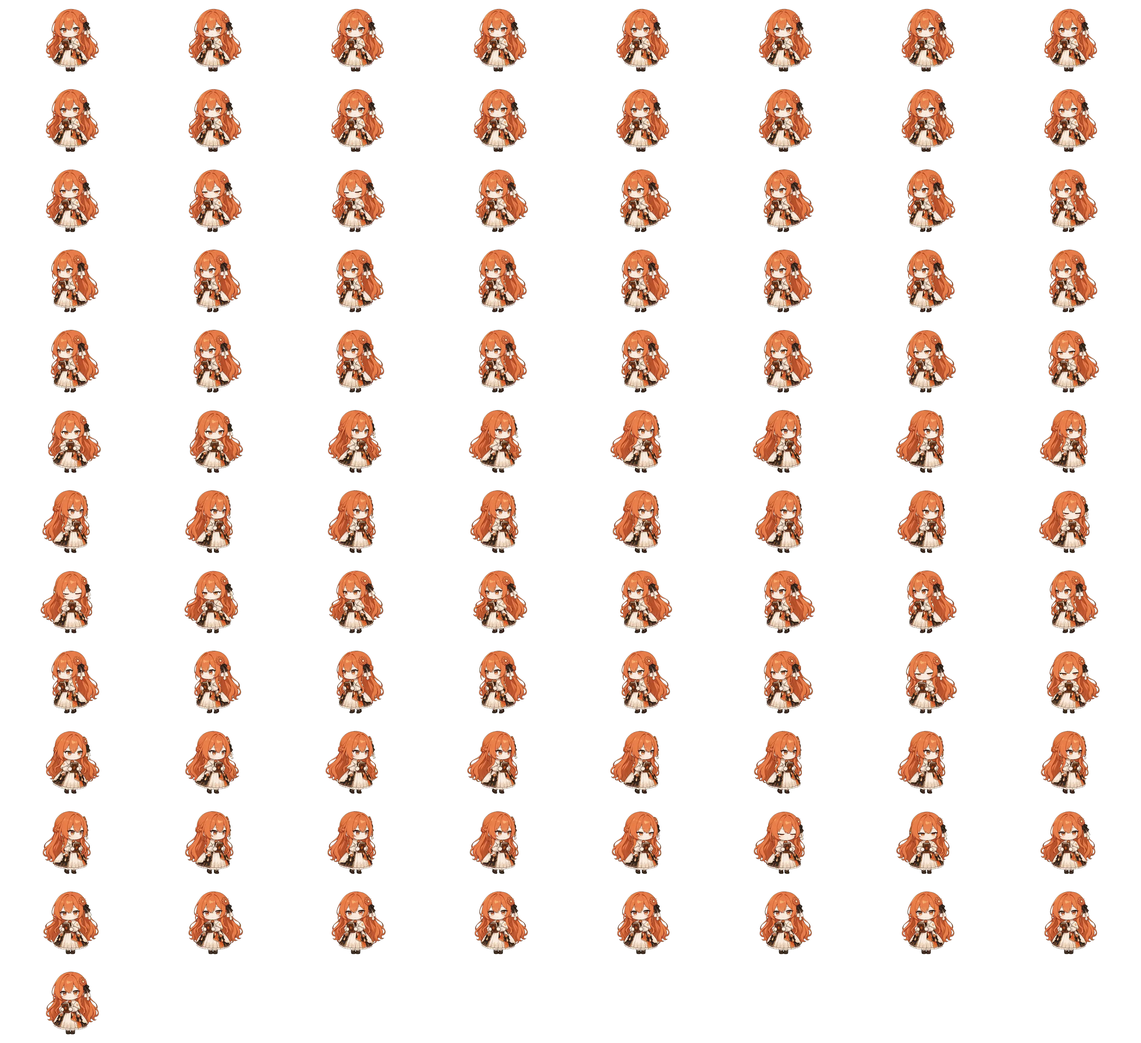
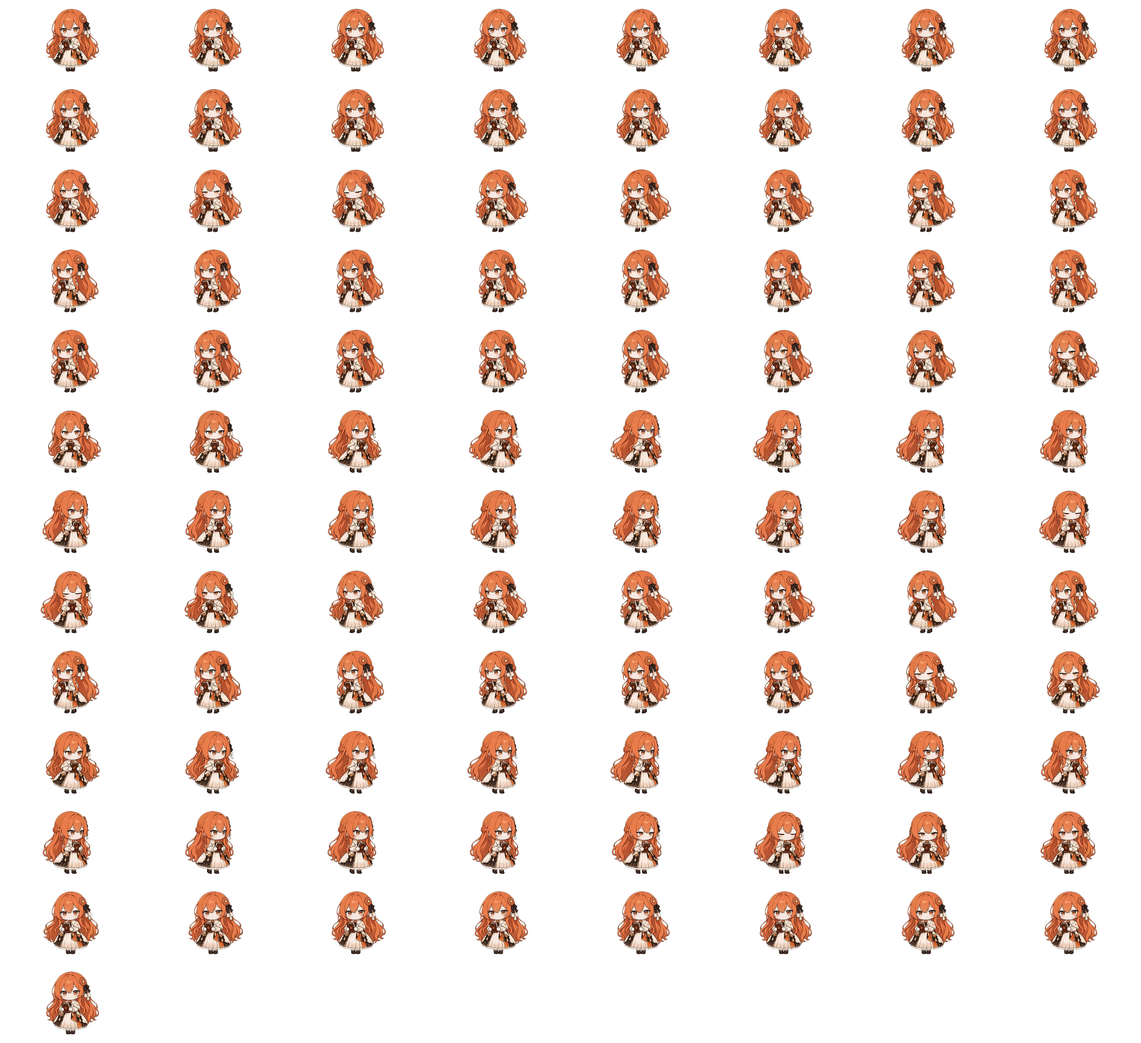
Add tired idle animation; reprocess self-made sheets losslessly
- New 累了-叹气垂书 sheet (Wan 3.0, 15 fps, 100 frames): a sigh, the book drops to her waist, a slow blink, then she quietly recovers
- Tired is no longer a resting pose when quota runs low; it is an idle action in the Claude group, picked one time in three when the 5-hour or weekly quota is at or below 15%, with its own low-quota lines
- Reprocess all ten self-made sheets from the source videos: lossless intermediates and a single WebP encode at quality 90, one colour mapping per clip anchored on the idle-stance frames, hair and face matched to idle (frame-to-frame colour jitter in held poses drops from 4.7 to 1.9; faces no longer yellowish)
- Asking resampled at 15 fps without half-frame blending (loop 40-59); retire the static tired.webp

diff --git a/web/index.html b/web/index.html
@@ -714,7 +714,7 @@ function renderQuota() {
 // 不然一条要跑好几分钟的命令中途她演了个招呼，之后一直没有新事件，就会站着不动
 function restPose() {
   if (aiActivity()) { const p = charState[charId].pose; return p === 'listening' ? 'thinking' : p }
-  return quota[charId]?.low ? 'tired' : 'idle'
+  return 'idle'   // 额度低不再常驻「累了」（2026-11-25 用户定）：累了改成闲置随机动作，见 tiredFirst
 }
 // 这个角色有没有某个姿态的专属立绘
 const hasPose = p => !!char()?.poses?.[p]
@@ -1383,12 +1383,10 @@ function setQuota(id, q, at) {
 setInterval(() => { if (quotaRaw[charId]) applyQuota(charId) }, 60_000)
 function applyQuota(id) {
   const q = QuotaBars.fresh(quotaRaw[id], Date.now() / 1000, quotaAt[id])
-  const wasLow = quota[id]?.low
   quota[id] = q
   if (id !== charId) return
   renderQuota()
-  if (q?.low && pose === 'idle') { setPose('tired'); if (!wasLow) say(pick(linesOf('tired') || [''])) }
-  if (!q?.low && pose === 'tired') setPose('idle')
+  if (pose === 'tired' && !anim('tired')) setPose('idle')   // 旧版额度低时停在静态「累了」：换上动画后不再常驻
   const tier = quotaTier(q)
   if (tier && quotaTierSeen && tier !== quotaTierSeen && anim(tier) && !aiActivity() && !multi && !tumble && farewellLine === null && RESTING.has(pose)) show(tier, true)
   if (tier) quotaTierSeen = tier
@@ -1747,6 +1745,8 @@ function idleTick() {
     farewell: farewellLine !== null, clicking: clickSequence.busy || motionMood.pending || !!tumble })
   if (!available.length) return
   if (quiet > SLEEP_AFTER) { setPose('sleeping'); say(pick(linesOf('sleeping') || [''])); return }
+  if (tiredFirst(available)) { show('tired', true); say(pick(linesOf('tiredLow') || linesOf('tired') || [''])); return }   // 额度低时说额度的台词，平时抽到只说累
+  if (!available.length) return
   // 先在组里平均抽一组，再在组里按 weight 抽一个：动画小动作很多，不能把哼歌、伸懒腰这些挤掉；当天的节气动作权重高
   const groups = [...new Set(available.map(p => groupOf[p] || p))], g = pick(groups)
   const inGroup = available.filter(p => (groupOf[p] || p) === g)
@@ -1755,6 +1755,15 @@ function idleTick() {
   if (anim(action)?.walk) { if (startWalk(action)) return; }
   if (!TRANSIENT[action]) TRANSIENT[action] = 4000
   show(action, true)
+}
+// 累了（2026-11-25 用户定）：只在闲置随机动作里。5 小时或本周额度剩 15% 以下时，每次抽动作有 1/3 是「累了」（其余 2/3 从别的动作里抽）；
+// 平时就是「Claude 梗」组里的普通一员。工作中的姿态不受影响（随机动作本来只在闲着时抽）
+function quotaLow15() { return (quota[charId]?.bars || []).some(b => (b.label === '5小时' || b.label === '本周') && b.left <= .15) }
+function tiredFirst(available) {
+  if (!available.includes('tired') || !quotaLow15()) return false
+  if (Math.random() < 1 / 3) return true
+  available.splice(available.indexOf('tired'), 1)
+  return false
 }
 function idleAnimations(d = new Date()) {
   const out = Object.entries(char()?.animations || {}).filter(([p, a]) => a.idle && idleSettings.actions.includes(a.idle) && whenOk(a.when, d) && anim(p)).map(([p]) => p)

diff --git a/characters/claude/anim/SOURCE.md b/characters/claude/anim/SOURCE.md
@@ -84,15 +84,16 @@
 
 | 文件 | 用在哪 | 怎么做的 |
 |---|---|---|
-| 看书-翻页.webp | reading 看书（整段循环；原来的静态翻页 reading / reading-2 移到 `archive/`） | 首帧、尾帧都用 待机呼吸休闲.webp 的第 1 帧（绿底），ByteDance Seedance 2.0（经 ComfyUI 云端节点）生成 10 秒 480p 绿幕视频，再抠绿、抽成每秒 12 帧、缩放对齐到和作者第 1 帧同一位置（人物 y 40–322、x 206–444）。2026-11-24 头发再单独校一次（`hair_match.py`：头发的明暗分布、鲜艳度、色相对到作者整段待机动画的头发；原来额头浅色多，看着偏黄）。SHA-256 前 16 位 `9de8b168a0648364`（2026-11-18：按 BT.709 解码，用 Real-ESRGAN realesr-animevideov3（BSD-3）放大 2 倍去糊，再逐帧在 Lab 色彩空间里把颜色分布匹配到待机第 1 帧）放大 2 倍去糊，再逐帧校色到待机第 1 帧的颜色） |
-| 得意-叉腰.webp | proud 得意（干完大活时，72 帧演满；原来的静态 proud 移到 `archive/`） | 同上，Seedance 2.0 480p 6 秒，第 3 版提示词（第 2 版写了「眼睛一亮、睁大」，被画成闪亮大眼，作废）；超分 2 倍 + 逐帧 Lab 校色。2026-11-24 头发再单独校一次（`hair_match.py`：头发的明暗分布、鲜艳度、色相对到作者整段待机动画的头发；原来额头浅色多，看着偏黄）。SHA-256 前 16 位 `4ea297dbaf9bb480` |
-| 小侦探-放大镜.webp | detective 小侦探（闲置随机，玩耍组，不限时段，96 帧演满） | 同上，Seedance 2.0 480p 8 秒：魔法变出放大镜、书飘到肩旁，左右探着找、凑到眼前瞄，最后点头、放大镜化光散掉。本来是给「查资料」做的第 2 版，像找东西不像查资料，改作随机动作。超分 2 倍 + 逐帧 Lab 校色。2026-11-24 头发再单独校一次（`hair_match.py`：头发的明暗分布、鲜艳度、色相对到作者整段待机动画的头发；原来额头浅色多，看着偏黄）。SHA-256 前 16 位 `ad448377887a3518` |
-| 查资料-扫读翻页.webp | searching 查资料（第 0–41 帧入场，第 42–67 帧循环，第 68–96 帧离场，帧号从 0 开始） | 2026-11-23 用待机动画第 1 帧的绿底版作为首尾帧，经 LibTV 出片。480p 原片为 24 fps，按 BT.709 解码，隔帧取样后用 Real-ESRGAN 动漫模型超分 2 倍，抠绿、底边对齐、逐帧 Lab 校色。原静态翻页素材归档。2026-11-24 头发再单独校一次（`hair_match.py`：头发的明暗分布、鲜艳度、色相对到作者整段待机动画的头发；原来额头浅色多，看着偏黄）。SHA-256 前 16 位 `8f07cb2e8a2cf348`。 |
-| 有事问你-举手.webp | asking 有事问你（第 0–32 帧入场举手，第 33–47 帧循环摆手，离开时从当前帧一直往后播：第 48–69 帧再摆一次手、第 70–95 帧放手，共 96 帧，帧号从 0 开始。循环段两头和后半段对不上，所以离场不跳帧） | 2026-11-23 动作本项目设计，用待机动画第 1 帧的绿底版作为首尾帧，经 LibTV（Wan 3.0）出片。480p 原片为 30 fps，按 BT.709 解码，每 2.5 帧取一帧（每秒 12 帧，落在半帧上的取前后两帧各一半）后用 Real-ESRGAN 动漫模型超分 2 倍，按四边实测底色抠绿、底边对齐、逐帧 Lab 校色。原静态立绘归档。2026-11-24 头发再单独校一次（`hair_match.py`：头发的明暗分布、鲜艳度、色相对到作者整段待机动画的头发；原来额头浅色多，看着偏黄）。SHA-256 前 16 位 `4c70744b7f6d7a1a`。 |
-| 派活-小帮手跑圈.webp | delegating 派活（每秒 15 帧、共 171 帧、22 行，和别的动画不一样。第 0–87 帧原片：两只方块小布偶凝出、开始跑圈、她抬手指挥；第 88–129 帧是分层合成的循环；第 130–170 帧布偶跑回两侧消散、她抱回书，帧号从 0 开始。停下时把当前这圈跑完再接收尾） | 2026-11-23 动作本项目设计（参照原静态派活图「叫帮手」的意思，帮手画成 Claude Code 的吉祥物 Clawd 样子的方块小布偶），用待机动画第 1 帧的绿底版作为首尾帧，经 LibTV（Wan 3.0，10 秒）出片。原片 30 fps 每 2 帧取一帧（布偶跑得快，半帧混合会叠出残影、一闪一闪，所以不按 12 帧混合），超分、抠绿、对齐同「有事问你-举手」；校色只用第 0 帧人物所在区域算一次、套到所有帧（`--mask-first --one-lut`），免得橙色布偶把头发校歪、跑过她面前时脸跟着闪。循环和收尾用 `D:\video llm\工作流\compose_layers.py` 分层重拼（入场原样）：每帧先按她头部对齐（抵消 Wan 画出的左右晃动）；她整个人用「她的帧」（循环时是手势循环第 80–121 帧；不横切，整根头发同一时刻），那一帧里原本的布偶挖掉、用对齐后的第 0 帧补；再把「布偶的帧」里的布偶叠上去（按和第 0 帧的差别抠，只留贴地或够大的方块，被吹起的发丝不要），循环时是半圈 21 帧（第 88–108 帧）播两遍；收尾时她这层把第 88–149 帧快放到和布偶一样长；最后把半透明处混进来的绿幕反推掉（布偶凝出、消散时原来泛绿发黄）。原 8 张静态翻页归档。Clawd 形象的权利归 Anthropic。SHA-256 前 16 位 `79ee2529c7d732a2`。 |
-| 忙碌-左右看.webp | busy 忙碌（两个对话同时干活；每秒 15 帧、共 97 帧。第 16 帧起播，之后在第 51–81 帧循环（右看 → 转左看 → 转回右看，首尾差 8.4、比相邻两帧小，一直在转头、不会站直停顿）；离开时从当前帧接着播到第 96 帧站定。character.json 的 look 标了她看左 / 看右的帧段，两侧对话卡片跟着亮） | 2026-11-24 动作本项目设计（照原静态图「左右来回看」），用待机动画第 1 帧的绿底版作为首尾帧，经 LibTV（Wan 3.0，8 秒）出片。模型开头半秒自己换成了另一个站姿、结尾也停在它上面，所以只取原片第 15–207 帧（从它的站姿起、到最像第 15 帧的地方止，首尾差和相邻两帧差不多），30 fps 每 2 帧取一帧，超分、抠绿、对齐，校色只用第 0 帧算一次（`--one-lut`）。原静态 busy_left / busy_right 保留作关掉动画时的后备。2026-11-24 头发再单独校一次（`hair_match.py`：头发的明暗分布、鲜艳度、色相对到作者整段待机动画的头发；原来额头浅色多，看着偏黄）。SHA-256 前 16 位 `9e35bcd7ddf2d918`。 |
-| 忙不过来-抱书摞.webp | swamped 忙不过来（三个以上对话同时干活；每秒 24 帧、共 164 帧（原片前 164 帧，一帧不跳：12 帧时换边只剩 3 帧，看着是跳过去的）。第 0–72 帧三本书从上面落下、叠成一摞，第 73–110 帧循环左右晃着扶正，离开时接着播到第 163 帧书摞稳住，再淡入下一个动作——原片之后书淡去时会叠出重影，没取） | 2026-11-24 动作本项目设计，前后试了 Wan 3.0 五版、Seedance 2.5 Flash 一版都没成，最后用 Seedance 2.5（480p、8 秒，提示词 `prompt_swamped_v9_seedance25.txt`），首尾帧是待机第 1 帧绿底版。原片 24 fps 全取（`--step 1 --frames 164`），超分用 RealESRGAN_x4plus_anime_6B（`--sr-model`），抠绿、对齐，校色逐帧算、取前后各 6 帧平均，不算书的颜色（`lab_match.py --smooth 6 --no-books`；只用第 0 帧算一次的话，后面的帧会发白发灰）。Seedance 线条细、偏淡，再轻度加强：暗细线压深、轻微锐化、饱和度 +5%（强度 40%）。她左右晃得太大，每帧按头部位置把整帧往回平移 60%（按 1 像素量、不平滑，只平移、不拼接）。原静态 swamped_left / swamped_right 保留作关掉动画时的后备。2026-11-24 头发再单独校一次（`hair_match.py`：头发的明暗分布、鲜艳度、色相对到作者整段待机动画的头发；原来额头浅色多，看着偏黄）。SHA-256 前 16 位 `160c423c7839e5a7`。 |
-| 道歉-鞠躬挠头.webp | sorry 道歉（出错或被打断后你又发消息时，Claude 先认个错；每秒 24 帧、共 163 帧。第 0–43 帧手按胸口、闭眼鞠躬，第 44–77 帧循环保持鞠躬（首尾差 6.2，和相邻两帧的 5.2 差不多），离开时从当前帧接着播：第 78–100 帧直起身、第 101–138 帧闭眼笑着不好意思地挠头、第 139–162 帧手放回书上站好，帧号从 0 开始） | 2026-11-25 动作本项目设计（照原静态图「闭眼浅笑、手按胸口」，起身时挠头），用待机动画第 1 帧的绿底版作为首尾帧，经 LibTV（Seedance 2.5 Flash，480p、8 秒）出片，第 3 版提示词 `prompt_sorry_v3_seedance25flash.txt`（第 1 版 Wan 3.0 鞠躬太浅、把低头画成歪头；第 2 版鞠下去转成了完全正面，和首帧微微侧身的站姿对不上）。原片 24 fps，开头约 1.25 秒原地站着没取（`--start 30`），之后全取 163 帧，超分用 RealESRGAN_x4plus_anime_6B，抠绿、对齐，逐帧 Lab 校色并取前后各 6 帧平均（`lab_match.py --smooth 6`），最后 `hair_match.py --wide --band-hue` 对头发（连暗部阴影、深色发丝一起对，色相按明暗分档对齐：只对亮部时暗橙色比作者少两成、还偏黄，看着发浅、不够橙）。原静态 sorry.webp 归档。SHA-256 前 16 位 `def1b215f1835a70`。 |
+| 看书-翻页.webp | reading 看书（整段循环；原来的静态翻页 reading / reading-2 移到 `archive/`） | 首帧、尾帧都用 待机呼吸休闲.webp 的第 1 帧（绿底），ByteDance Seedance 2.0（经 ComfyUI 云端节点）生成 10 秒 480p 绿幕视频，再抠绿、抽成每秒 12 帧、缩放对齐到和作者第 1 帧同一位置（人物 y 40–322、x 206–444）。2026-11-24 头发再单独校一次（`hair_match.py`：头发的明暗分布、鲜艳度、色相对到作者整段待机动画的头发；原来额头浅色多，看着偏黄）。2026-11-25 从原片重新处理：中间文件都存无损 PNG，最后只压一次 WebP（质量 90）；颜色映射整段只用一个，按开头、结尾各 6 帧（待机站姿）算（`lab_match.py` / `hair_match.py --ends 6`），头发和脸 `hair_match.py --wide --band-hue --light`——原来每步都存有损 WebP、逐帧算映射，同一块地方的颜色一帧一帧地抖（道歉鞠躬保持段逐像素抖动 4.7 → 1.9），脸也比作者黄。SHA-256 前 16 位 `114f36b67a14b82f`（2026-11-18：按 BT.709 解码，用 Real-ESRGAN realesr-animevideov3（BSD-3）放大 2 倍去糊，再逐帧在 Lab 色彩空间里把颜色分布匹配到待机第 1 帧）放大 2 倍去糊，再逐帧校色到待机第 1 帧的颜色） |
+| 得意-叉腰.webp | proud 得意（干完大活时，72 帧演满；原来的静态 proud 移到 `archive/`） | 同上，Seedance 2.0 480p 6 秒，第 3 版提示词（第 2 版写了「眼睛一亮、睁大」，被画成闪亮大眼，作废）；超分 2 倍 + 逐帧 Lab 校色。2026-11-24 头发再单独校一次（`hair_match.py`：头发的明暗分布、鲜艳度、色相对到作者整段待机动画的头发；原来额头浅色多，看着偏黄）。2026-11-25 从原片重新处理：中间文件都存无损 PNG，最后只压一次 WebP（质量 90）；颜色映射整段只用一个，按开头、结尾各 6 帧（待机站姿）算（`lab_match.py` / `hair_match.py --ends 6`），头发和脸 `hair_match.py --wide --band-hue --light`——原来每步都存有损 WebP、逐帧算映射，同一块地方的颜色一帧一帧地抖（道歉鞠躬保持段逐像素抖动 4.7 → 1.9），脸也比作者黄。SHA-256 前 16 位 `79e001918cd8e458` |
+| 小侦探-放大镜.webp | detective 小侦探（闲置随机，玩耍组，不限时段，96 帧演满） | 同上，Seedance 2.0 480p 8 秒：魔法变出放大镜、书飘到肩旁，左右探着找、凑到眼前瞄，最后点头、放大镜化光散掉。本来是给「查资料」做的第 2 版，像找东西不像查资料，改作随机动作。超分 2 倍 + 逐帧 Lab 校色。2026-11-24 头发再单独校一次（`hair_match.py`：头发的明暗分布、鲜艳度、色相对到作者整段待机动画的头发；原来额头浅色多，看着偏黄）。2026-11-25 从原片重新处理：中间文件都存无损 PNG，最后只压一次 WebP（质量 90）；颜色映射整段只用一个，按开头、结尾各 6 帧（待机站姿）算（`lab_match.py` / `hair_match.py --ends 6`），头发和脸 `hair_match.py --wide --band-hue --light`——原来每步都存有损 WebP、逐帧算映射，同一块地方的颜色一帧一帧地抖（道歉鞠躬保持段逐像素抖动 4.7 → 1.9），脸也比作者黄。SHA-256 前 16 位 `c3402e6e28bd60c3` |
+| 查资料-扫读翻页.webp | searching 查资料（第 0–41 帧入场，第 42–67 帧循环，第 68–96 帧离场，帧号从 0 开始） | 2026-11-23 用待机动画第 1 帧的绿底版作为首尾帧，经 LibTV 出片。480p 原片为 24 fps，按 BT.709 解码，隔帧取样后用 Real-ESRGAN 动漫模型超分 2 倍，抠绿、底边对齐、逐帧 Lab 校色。原静态翻页素材归档。2026-11-24 头发再单独校一次（`hair_match.py`：头发的明暗分布、鲜艳度、色相对到作者整段待机动画的头发；原来额头浅色多，看着偏黄）。2026-11-25 从原片重新处理：中间文件都存无损 PNG，最后只压一次 WebP（质量 90）；颜色映射整段只用一个，按开头、结尾各 6 帧（待机站姿）算（`lab_match.py` / `hair_match.py --ends 6`），头发和脸 `hair_match.py --wide --band-hue --light`——原来每步都存有损 WebP、逐帧算映射，同一块地方的颜色一帧一帧地抖（道歉鞠躬保持段逐像素抖动 4.7 → 1.9），脸也比作者黄。SHA-256 前 16 位 `1bceaa0e80bafab7`。 |
+| 有事问你-举手.webp | asking 有事问你（2026-11-25 起每秒 15 帧、共 120 帧：第 0–39 帧入场举手，第 40–59 帧循环摆手（首尾差 8.5，比相邻两帧的 10.2 还小），离开时从当前帧一直往后播到第 119 帧放手站好，帧号从 0 开始。原来每 2.5 帧取一帧、半帧处两帧混合，线条发糊，改成每 2 帧整取） | 2026-11-23 动作本项目设计，用待机动画第 1 帧的绿底版作为首尾帧，经 LibTV（Wan 3.0）出片。480p 原片为 30 fps，按 BT.709 解码，每 2.5 帧取一帧（每秒 12 帧，落在半帧上的取前后两帧各一半）后用 Real-ESRGAN 动漫模型超分 2 倍，按四边实测底色抠绿、底边对齐、逐帧 Lab 校色。原静态立绘归档。2026-11-24 头发再单独校一次（`hair_match.py`：头发的明暗分布、鲜艳度、色相对到作者整段待机动画的头发；原来额头浅色多，看着偏黄）。2026-11-25 从原片重新处理：中间文件都存无损 PNG，最后只压一次 WebP（质量 90）；颜色映射整段只用一个，按开头、结尾各 6 帧（待机站姿）算（`lab_match.py` / `hair_match.py --ends 6`），头发和脸 `hair_match.py --wide --band-hue --light`——原来每步都存有损 WebP、逐帧算映射，同一块地方的颜色一帧一帧地抖（道歉鞠躬保持段逐像素抖动 4.7 → 1.9），脸也比作者黄，Wan 的片子最后再 `clean.py` 去噪。SHA-256 前 16 位 `2ece8a6eaea50110`。 |
+| 派活-小帮手跑圈.webp | delegating 派活（每秒 15 帧、共 171 帧、22 行，和别的动画不一样。第 0–87 帧原片：两只方块小布偶凝出、开始跑圈、她抬手指挥；第 88–129 帧是分层合成的循环；第 130–170 帧布偶跑回两侧消散、她抱回书，帧号从 0 开始。停下时把当前这圈跑完再接收尾） | 2026-11-23 动作本项目设计（参照原静态派活图「叫帮手」的意思，帮手画成 Claude Code 的吉祥物 Clawd 样子的方块小布偶），用待机动画第 1 帧的绿底版作为首尾帧，经 LibTV（Wan 3.0，10 秒）出片。原片 30 fps 每 2 帧取一帧（布偶跑得快，半帧混合会叠出残影、一闪一闪，所以不按 12 帧混合），超分、抠绿、对齐同「有事问你-举手」；校色只用第 0 帧人物所在区域算一次、套到所有帧（`--mask-first --one-lut`），免得橙色布偶把头发校歪、跑过她面前时脸跟着闪。循环和收尾用 `D:\video llm\工作流\compose_layers.py` 分层重拼（入场原样）：每帧先按她头部对齐（抵消 Wan 画出的左右晃动）；她整个人用「她的帧」（循环时是手势循环第 80–121 帧；不横切，整根头发同一时刻），那一帧里原本的布偶挖掉、用对齐后的第 0 帧补；再把「布偶的帧」里的布偶叠上去（按和第 0 帧的差别抠，只留贴地或够大的方块，被吹起的发丝不要），循环时是半圈 21 帧（第 88–108 帧）播两遍；收尾时她这层把第 88–149 帧快放到和布偶一样长；最后把半透明处混进来的绿幕反推掉（布偶凝出、消散时原来泛绿发黄）。原 8 张静态翻页归档。Clawd 形象的权利归 Anthropic。2026-11-25 从原片重新处理：中间文件都存无损 PNG（`compose_layers.py` 也改成可存 PNG），最后 `clean.py` 去噪、只压一次 WebP（质量 90）；校色照旧只用第 0 帧算一次。SHA-256 前 16 位 `11c905ebafaa1fc6`。 |
+| 忙碌-左右看.webp | busy 忙碌（两个对话同时干活；每秒 15 帧、共 97 帧。第 16 帧起播，之后在第 51–81 帧循环（右看 → 转左看 → 转回右看，首尾差 8.4、比相邻两帧小，一直在转头、不会站直停顿）；离开时从当前帧接着播到第 96 帧站定。character.json 的 look 标了她看左 / 看右的帧段，两侧对话卡片跟着亮） | 2026-11-24 动作本项目设计（照原静态图「左右来回看」），用待机动画第 1 帧的绿底版作为首尾帧，经 LibTV（Wan 3.0，8 秒）出片。模型开头半秒自己换成了另一个站姿、结尾也停在它上面，所以只取原片第 15–207 帧（从它的站姿起、到最像第 15 帧的地方止，首尾差和相邻两帧差不多），30 fps 每 2 帧取一帧，超分、抠绿、对齐，校色只用第 0 帧算一次（`--one-lut`）。原静态 busy_left / busy_right 保留作关掉动画时的后备。2026-11-24 头发再单独校一次（`hair_match.py`：头发的明暗分布、鲜艳度、色相对到作者整段待机动画的头发；原来额头浅色多，看着偏黄）。2026-11-25 从原片重新处理：中间文件都存无损 PNG，最后只压一次 WebP（质量 90）；颜色映射整段只用一个，按开头、结尾各 6 帧（待机站姿）算（`lab_match.py` / `hair_match.py --ends 6`），头发和脸 `hair_match.py --wide --band-hue --light`——原来每步都存有损 WebP、逐帧算映射，同一块地方的颜色一帧一帧地抖（道歉鞠躬保持段逐像素抖动 4.7 → 1.9），脸也比作者黄，Wan 的片子最后再 `clean.py` 去噪。SHA-256 前 16 位 `e1b223067b0dbea1`。 |
+| 忙不过来-抱书摞.webp | swamped 忙不过来（三个以上对话同时干活；每秒 24 帧、共 164 帧（原片前 164 帧，一帧不跳：12 帧时换边只剩 3 帧，看着是跳过去的）。第 0–72 帧三本书从上面落下、叠成一摞，第 73–110 帧循环左右晃着扶正，离开时接着播到第 163 帧书摞稳住，再淡入下一个动作——原片之后书淡去时会叠出重影，没取） | 2026-11-24 动作本项目设计，前后试了 Wan 3.0 五版、Seedance 2.5 Flash 一版都没成，最后用 Seedance 2.5（480p、8 秒，提示词 `prompt_swamped_v9_seedance25.txt`），首尾帧是待机第 1 帧绿底版。原片 24 fps 全取（`--step 1 --frames 164`），超分用 RealESRGAN_x4plus_anime_6B（`--sr-model`），抠绿、对齐，校色逐帧算、取前后各 6 帧平均，不算书的颜色（`lab_match.py --smooth 6 --no-books`；只用第 0 帧算一次的话，后面的帧会发白发灰）。Seedance 线条细、偏淡，再轻度加强：暗细线压深、轻微锐化、饱和度 +5%（强度 40%）。她左右晃得太大，每帧按头部位置把整帧往回平移 60%（按 1 像素量、不平滑，只平移、不拼接）。原静态 swamped_left / swamped_right 保留作关掉动画时的后备。2026-11-24 头发再单独校一次（`hair_match.py`：头发的明暗分布、鲜艳度、色相对到作者整段待机动画的头发；原来额头浅色多，看着偏黄）。2026-11-25 从原片重新处理：中间文件都存无损 PNG，最后只压一次 WebP（质量 90）；结尾停在书摞上、不是待机站姿，颜色映射整段平均一个（`lab_match.py --smooth 999 --no-books`）；加强（`enhance.py`，强度 0.4）、平移（`shift_frames.py`，平移量是从上一版精灵图逐帧反推的，存在 `D:ideo llm\输出\忙不过来\平移量.npy`）照原来的做法重写成脚本；头发和脸 `hair_match.py --smooth 999 --wide --band-hue --light`。SHA-256 前 16 位 `7e41d219e61994c9`。 |
+| 道歉-鞠躬挠头.webp | sorry 道歉（出错或被打断后你又发消息时，Claude 先认个错；每秒 24 帧、共 163 帧。第 0–43 帧手按胸口、闭眼鞠躬，第 44–77 帧循环保持鞠躬（首尾差 6.2，和相邻两帧的 5.2 差不多），离开时从当前帧接着播：第 78–100 帧直起身、第 101–138 帧闭眼笑着不好意思地挠头、第 139–162 帧手放回书上站好，帧号从 0 开始） | 2026-11-25 动作本项目设计（照原静态图「闭眼浅笑、手按胸口」，起身时挠头），用待机动画第 1 帧的绿底版作为首尾帧，经 LibTV（Seedance 2.5 Flash，480p、8 秒）出片，第 3 版提示词 `prompt_sorry_v3_seedance25flash.txt`（第 1 版 Wan 3.0 鞠躬太浅、把低头画成歪头；第 2 版鞠下去转成了完全正面，和首帧微微侧身的站姿对不上）。原片 24 fps，开头约 1.25 秒原地站着没取（`--start 30`），之后全取 163 帧，超分用 RealESRGAN_x4plus_anime_6B，抠绿、对齐，Lab 校色，最后 `hair_match.py --wide --band-hue --light` 对头发（连暗部阴影、深色发丝一起对，色相按明暗分档对齐：只对亮部时暗橙色比作者少两成、还偏黄，看着发浅、不够橙）。原静态 sorry.webp 归档。2026-11-25 从原片重新处理：中间文件都存无损 PNG，最后只压一次 WebP（质量 90）；颜色映射整段只用一个，按开头、结尾各 6 帧（待机站姿）算（`lab_match.py` / `hair_match.py --ends 6`），头发和脸 `hair_match.py --wide --band-hue --light`——原来每步都存有损 WebP、逐帧算映射，同一块地方的颜色一帧一帧地抖（道歉鞠躬保持段逐像素抖动 4.7 → 1.9），脸也比作者黄。SHA-256 前 16 位 `ea4c562ca4ebcaa9`。 |
+| 累了-叹气垂书.webp | tired 累了（闲置随机动作，「Claude 梗」组，每秒 15 帧、100 帧演满：叹口气、肩膀一塌、书垂到腰前、半睁着眼站一会儿，再慢慢把书抱回胸前。平时是组里的普通一员；5 小时或本周额度剩 15% 以下时，每次抽动作有 1/3 是它。原来额度低时一直停在静态「累了」，2026-11-25 用户定改成这样） | 2026-11-25 动作本项目设计（照原静态图「垂着书、半闭眼」），用待机动画第 1 帧的绿底版作为首尾帧，经 LibTV（Wan 3.0，480p、8 秒）出片，提示词 `prompt_tired_v1_wan.txt`。原片 30 fps，开头 0.3 秒眨了一下单眼、之后站着不动，从第 40 帧起取（`--start 40`），每 2 帧整取一帧（每秒 15 帧）共 100 帧——先试过每 2.5 帧取一帧（12 帧/秒），半帧处两帧各一半混合，线条叠出重影发糊；超分用 RealESRGAN_x4plus_anime_6B，抠绿、对齐，Lab 校色，头发 `hair_match.py --wide --band-hue --light`（`--light` 把脸、白裙这些浅色的黄蓝分布也对到作者：只做整体校色时脸比作者黄一截），最后逐帧去噪、只在线条处轻度锐化并压深暗细线（`D:\video llm\工作流\clean.py`，默认参数：Wan 片子平涂处有颗粒噪点，整幅锐化会把噪点一起放大）。模型开头自己把站姿换成了书更居中的样子、结尾也停在它上面，和待机第 1 帧不完全一样，进出靠交叉淡入淡出。原静态 tired.webp 归档。2026-11-25 从原片重新处理：中间文件都存无损 PNG，最后只压一次 WebP（质量 90）；颜色映射整段只用一个，按开头、结尾各 6 帧（待机站姿）算（`lab_match.py` / `hair_match.py --ends 6`），头发和脸 `hair_match.py --wide --band-hue --light`——原来每步都存有损 WebP、逐帧算映射，同一块地方的颜色一帧一帧地抖（道歉鞠躬保持段逐像素抖动 4.7 → 1.9），脸也比作者黄，Wan 的片子最后再 `clean.py` 去噪。SHA-256 前 16 位 `bdfcf204dbd13339`。 |
 
 以作者的帧为基础生成，按 CC BY-NC-SA 4.0，署名 hunmer（基础帧）和 claudia-pet。
 

diff --git a/NOTICE.md b/NOTICE.md
@@ -35,7 +35,7 @@ claudia-pet 作为独立项目维护，基于 [CrossPet](https://github.com/loki
 
 本项目原样使用这些精灵图文件（没有重新编码），只在播放时缩放、对齐，按每个姿态选取播放的帧段。文件清单和用途见 [characters/claude/anim/SOURCE.md](characters/claude/anim/SOURCE.md)。
 
-作者不再出新动作后，本项目自己生成的动画也放在 `characters/claude/anim/`。「看书-翻页」「得意-叉腰」「小侦探-放大镜」使用 ByteDance Seedance 2.0 生成，「查资料-扫读翻页」「有事问你-举手」「派活-小帮手跑圈」「忙碌-左右看」「忙不过来-抱书摞」「道歉-鞠躬挠头」经 LibTV 生成（「派活」里的方块小布偶是 Clawd 的样子，Clawd 形象的权利见下表）。生成时使用动作包里待机动画的第 1 帧作为首帧、尾帧，出片后抠像并转成同一规格的精灵图。它们基于作者的帧，同样按 CC BY-NC-SA 4.0 发布，署名 hunmer 和 claudia-pet。做法和清单见 SOURCE.md 末尾。
+作者不再出新动作后，本项目自己生成的动画也放在 `characters/claude/anim/`。「看书-翻页」「得意-叉腰」「小侦探-放大镜」使用 ByteDance Seedance 2.0 生成，「查资料-扫读翻页」「有事问你-举手」「派活-小帮手跑圈」「忙碌-左右看」「忙不过来-抱书摞」「道歉-鞠躬挠头」「累了-叹气垂书」经 LibTV 生成（「派活」里的方块小布偶是 Clawd 的样子，Clawd 形象的权利见下表）。生成时使用动作包里待机动画的第 1 帧作为首帧、尾帧，出片后抠像并转成同一规格的精灵图。它们基于作者的帧，同样按 CC BY-NC-SA 4.0 发布，署名 hunmer 和 claudia-pet。做法和清单见 SOURCE.md 末尾。
 
 | 内容 | 来源 | 授权 |
 |---|---|---|

diff --git a/archive/旧立绘-已被动画替换-不再使用/README.md b/archive/旧立绘-已被动画替换-不再使用/README.md
@@ -15,6 +15,7 @@
 | `searching.webp`、`searching-2.webp`、`searching-m1.webp` | 查资料（循环翻页） | 查资料-扫读翻页（2026-11-23 本项目制作） |
 | `asking.webp` | 有事问你（抱着打开的书笑） | 有事问你-举手（2026-11-23 本项目制作） |
 | `delegating*.webp`（8 张） | 派活（循环翻页，脚边有迷你分身） | 派活-小帮手跑圈（2026-11-23 本项目制作） |
+| `tired.webp` | 累了（额度低时常驻，垂着书半闭眼） | 累了-叹气垂书（2026-11-25 本项目制作；改成闲置随机动作，额度低时更常出现） |
 | `sorry.webp` | 道歉（闭眼浅笑、手按胸口） | 道歉-鞠躬挠头（2026-11-25 本项目制作） |
 | `proud.webp` | 得意（戴花冠、闭眼笑） | 得意-叉腰（2026-11-18 本项目用 Seedance 2.0 生成） |
 | `avatar.webp`、`portrait.webp`、`portrait-card.webp` | 头像、展示图（CrossPet 带来的，程序里早就没用到） | — |
